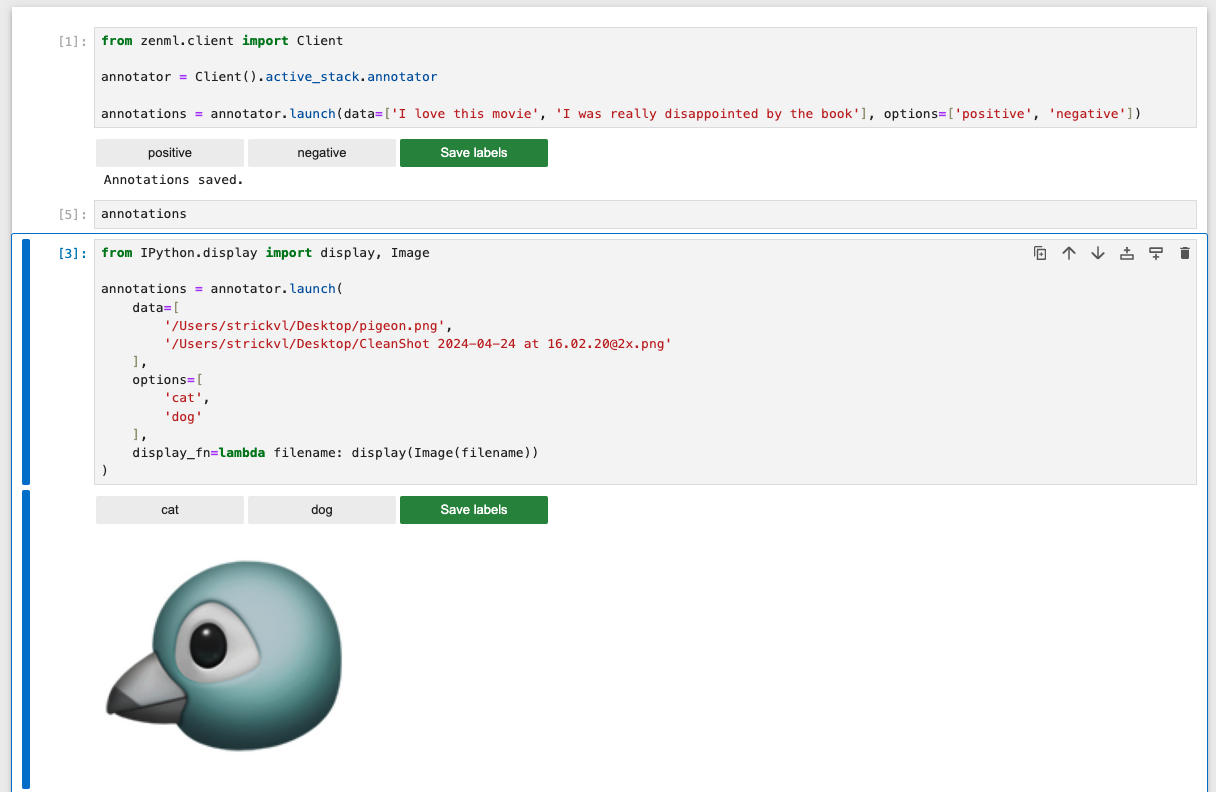
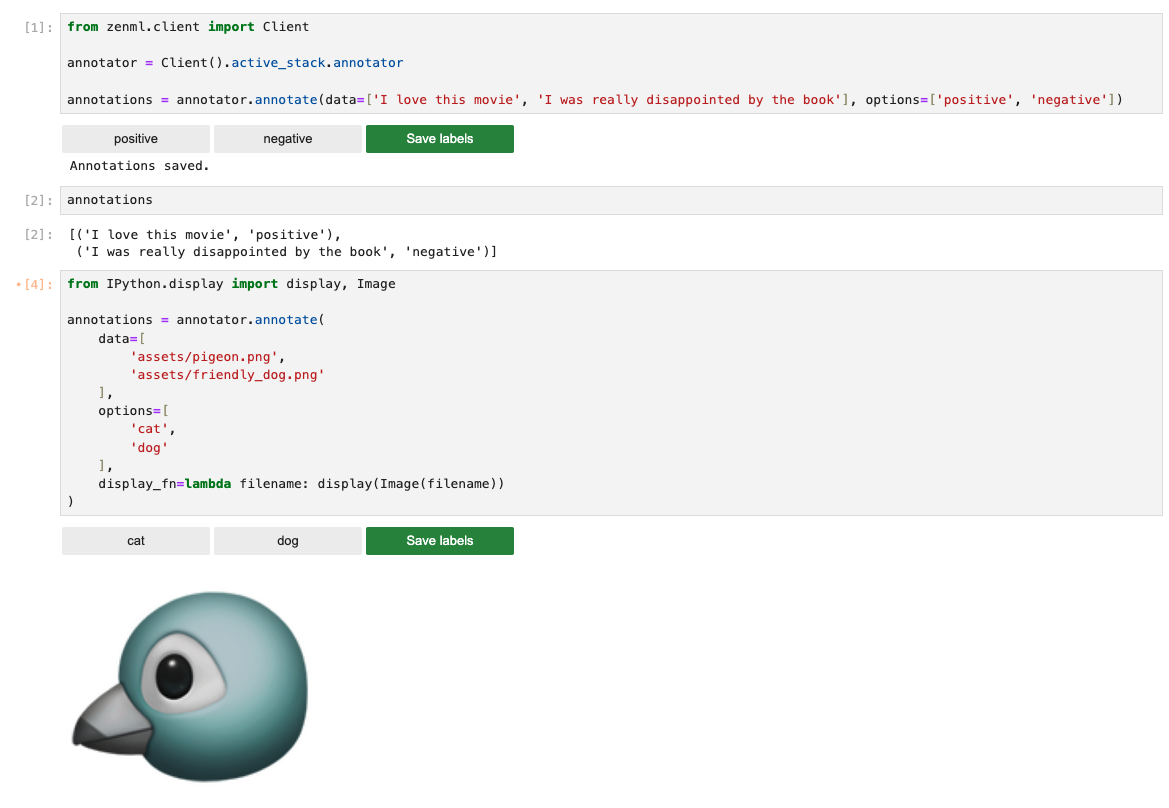
mypy fixes and retake image

diff --git a/src/zenml/integrations/pigeon/annotators/pigeon_annotator.py b/src/zenml/integrations/pigeon/annotators/pigeon_annotator.py
@@ -24,8 +24,8 @@ import os
 from datetime import datetime
 from typing import Any, List, Optional, Tuple, cast
 
-import ipywidgets as widgets
-from IPython.display import clear_output, display
+import ipywidgets as widgets  # type: ignore
+from IPython.display import clear_output, display  # type: ignore
 
 from zenml.annotators.base_annotator import BaseAnnotator
 from zenml.integrations.pigeon.flavors.pigeon_annotator_flavor import (
@@ -122,7 +122,7 @@ class PigeonAnnotator(BaseAnnotator):
         current_index = 0
         out = widgets.Output()
 
-        def show_next():
+        def show_next() -> None:
             nonlocal current_index
             if current_index >= len(examples):
                 with out:
@@ -136,7 +136,7 @@ class PigeonAnnotator(BaseAnnotator):
                 else:
                     display(examples[current_index])
 
-        def add_annotation(btn):
+        def add_annotation(btn: widgets.Button) -> None:
             """Add an annotation to the list of annotations.
 
             Args:
@@ -148,7 +148,7 @@ class PigeonAnnotator(BaseAnnotator):
             current_index += 1
             show_next()
 
-        def submit_annotations(btn):
+        def submit_annotations(btn: widgets.Button) -> None:
             """Submit all annotations and save them to a file.
 
             Args:
@@ -181,13 +181,26 @@ class PigeonAnnotator(BaseAnnotator):
 
         return annotations
 
-    def launch(
+    def launch(self, url: Optional[str] = None) -> None:
+        """Launch the Pigeon annotator in the Jupyter notebook.
+
+        Args:
+            url: Optional URL to launch the annotator with.
+
+        Raises:
+            NotImplementedError: Pigeon annotator does not support launching with a URL.
+        """
+        raise NotImplementedError(
+            "Pigeon annotator does not support launching with a URL."
+        )
+
+    def annotate(
         self,
         data: List[Any],
         options: List[str],
         display_fn: Optional[Any] = None,
     ) -> List[Tuple[Any, Any]]:
-        """Launch the Pigeon annotator in the Jupyter notebook.
+        """Annotate with the Pigeon annotator in the Jupyter notebook.
 
         Args:
             data: List of examples to annotate.
@@ -223,39 +236,60 @@ class PigeonAnnotator(BaseAnnotator):
             "Pigeon annotator does not support adding datasets."
         )
 
-    def delete_dataset(self, dataset_name: str) -> None:
+    def delete_dataset(self, **kwargs: Any) -> None:
         """Delete a dataset (annotation file).
 
+        Takes the `dataset_name` argument from the kwargs.
+
         Args:
-            dataset_name: Name of the dataset (annotation file) to delete.
+            **kwargs: Keyword arguments containing the `dataset_name` to delete.
         """
+        dataset_name = kwargs.get("dataset_name")
+        if not dataset_name:
+            raise ValueError(
+                "Dataset name (`dataset_name`) is required to delete a dataset."
+            )
         dataset_path = os.path.join(self.config.output_dir, dataset_name)
         os.remove(dataset_path)
 
-    def get_dataset(self, dataset_name: str) -> List[Tuple[Any, Any]]:
+    def get_dataset(self, **kwargs: Any) -> List[Tuple[Any, Any]]:
         """Get the annotated examples from a dataset (annotation file).
 
+        Takes the `dataset_name` argument from the kwargs.
+
         Args:
-            dataset_name: Name of the dataset (annotation file).
+            **kwargs: Keyword arguments containing the `dataset_name` to retrieve.
 
         Returns:
             A list of tuples containing (example, label) for each annotated example.
         """
+        dataset_name = kwargs.get("dataset_name")
+        if not dataset_name:
+            raise ValueError(
+                "Dataset name (`dataset_name`) is required to retrieve a dataset."
+            )
         dataset_path = os.path.join(self.config.output_dir, dataset_name)
         with open(dataset_path, "r") as f:
             annotations = json.load(f)
-        return annotations
+        return cast(List[Tuple[Any, Any]], annotations)
 
-    def get_labeled_data(self, dataset_name: str) -> List[Tuple[Any, Any]]:
+    def get_labeled_data(self, **kwargs: Any) -> List[Tuple[Any, Any]]:
         """Get the labeled examples from a dataset (annotation file).
 
+        Takes the `dataset_name` argument from the kwargs.
+
         Args:
-            dataset_name: Name of the dataset (annotation file).
+            **kwargs: Keyword arguments containing the `dataset_name` to retrieve.
 
         Returns:
             A list of tuples containing (example, label) for each labeled example.
         """
-        return self.get_dataset(dataset_name)
+        if dataset_name := kwargs.get("dataset_name"):
+            return self.get_dataset(dataset_name=dataset_name)
+        else:
+            raise ValueError(
+                "Dataset name (`dataset_name`) is required to retrieve labeled data."
+            )
 
     def get_unlabeled_data(self, **kwargs: Any) -> Any:
         """Get the unlabeled examples from a dataset (annotation file).

diff --git a/src/zenml/integrations/pigeon/flavors/pigeon_annotator_flavor.py b/src/zenml/integrations/pigeon/flavors/pigeon_annotator_flavor.py
@@ -42,7 +42,6 @@ class PigeonAnnotatorConfig(  # type: ignore[misc] # https://github.com/pydantic
     """
 
     output_dir: str = "annotations"
-    notebook_only: bool = True
 
 
 class PigeonAnnotatorFlavor(BaseAnnotatorFlavor):
